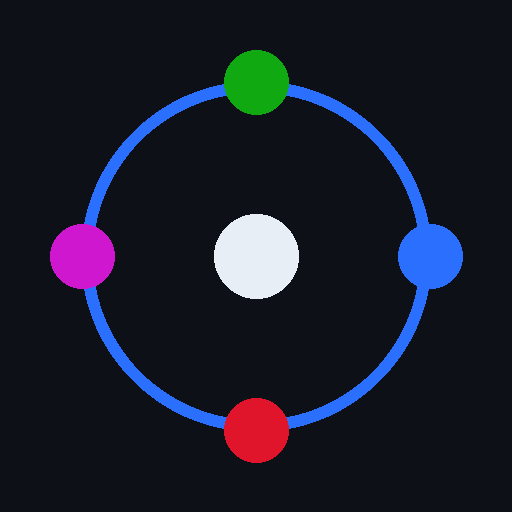
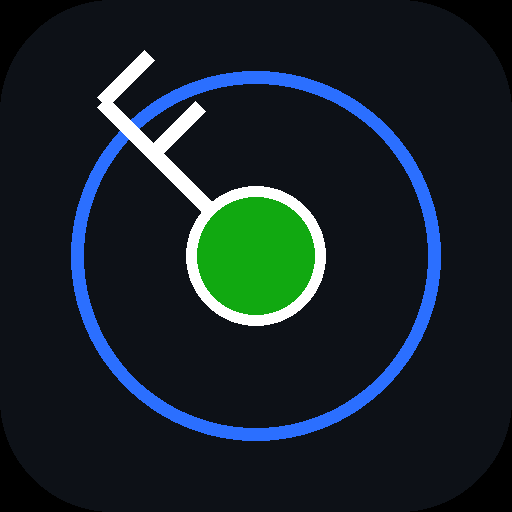
Add files via upload

Changed region(s): [[0.0938, 0.0938, 0.9062, 0.9062]]

diff --git a/index.html b/index.html
@@ -40,6 +40,7 @@
     height:32px;padding:0 12px;font-size:13px;font-weight:700}
   .toggle.on{background:var(--accent);color:#fff;border-color:var(--accent)}
   #map{flex:1;min-height:0;width:100%;background:#0a0e14}
+  #list{flex:1;min-height:0;overflow:auto;-webkit-overflow-scrolling:touch}
   .legend{display:flex;align-items:center;gap:14px;background:var(--panel);padding:6px 12px;flex-wrap:wrap}
   .legend .item{display:flex;align-items:center;gap:5px;font-size:13px;color:var(--muted)}
   .dot{width:12px;height:12px;border-radius:50%}
@@ -60,7 +61,14 @@
     font-size:11px;font-weight:700}
   .seg2 button.on{background:var(--accent);color:#fff}
   .tafBtn{margin-top:3px;background:transparent;border:0;color:#7fb0ff;font-size:12px;
-    font-weight:700;padding:2px 0;cursor:pointer;text-align:left}
+    font-weight:700;padding:2px 0;cursor:pointer;text-align:left;display:block}
+  .atisBtn{margin-top:3px;background:transparent;border:0;color:#6fe0aa;font-size:12px;
+    font-weight:700;padding:2px 0;cursor:pointer;text-align:left;display:block}
+  .tag.atis-tag{background:#214a39;color:#9af0c8}
+  .atis{margin-top:5px}
+  .atis-text{font-family:ui-monospace,Menlo,Consolas,monospace;font-size:13px;color:#c2ecd7;
+    white-space:pre-wrap;word-break:break-word;margin-top:3px;line-height:1.45}
+  .atis.none{color:#6b7a8d;font-style:italic;font-size:13px;margin-top:5px}
   .name{color:var(--muted);font-size:12px;margin:1px 0 5px}
   .decoded{display:flex;flex-wrap:wrap;gap:4px 16px;margin:2px 0 7px}
   .decoded{gap:6px 18px}
@@ -125,7 +133,7 @@
         <button data-r="50" class="on">50</button>
         <button data-r="100">100</button>
       </div>
-      <button id="filterBtn" class="toggle" title="Filter by conditions">All</button>
+      <button id="listBtn" class="toggle" title="Switch between map and list">List</button>
       <button id="radarBtn" class="toggle" title="Toggle weather radar">☔ Radar</button>
       <button id="refreshBtn" class="toggle" title="Refresh">↻</button>
       <button id="skipBtn" class="toggle on" title="Skip the intro" style="display:none">Skip ▸</button>
@@ -142,6 +150,7 @@
   </div>
 
   <div id="status"></div>
+  <div id="list" style="display:none"></div>
 
   <footer>
     <span class="disc">Situational awareness only — not an official weather briefing.
@@ -166,7 +175,6 @@ const API = (PROXY_BASE || "") + "/api/data";
 let radiusNm = 50;
 let center = null;
 let lastStations = [];
-let currentFilter = "all";   // "all" | "ifr"
 let radarLayer = null;
 
 // ---- geo helpers --------------------------------------------------------
@@ -222,6 +230,36 @@ function summaryLine(s){
 function fmtTaf(raw){
   if (!raw) return null;
   return raw.replace(/\s+(FM\d{6}|BECMG|TEMPO|PROB\d{2})/g, "\n$1").trim();
+}
+
+// ---- ATIS (digital ATIS, available at larger towered airports) ----------
+async function fetchAtis(icao){
+  for (const u of [`https://datis.clowd.io/api/${icao}`, `${PROXY_BASE}/atis/${icao}`]){
+    try{
+      const r = await fetch(u);
+      if (r.ok){ const j = await r.json(); if (Array.isArray(j)) return j; }
+    }catch(e){ /* try next source */ }
+  }
+  return [];
+}
+function atisHtml(arr){
+  if (!arr || !arr.length) return null;
+  return arr.map(a => {
+    const lbl = a.type === "dep" ? "Departure" : a.type === "arr" ? "Arrival" : "Combined";
+    return `<div class="atis"><span class="tag atis-tag">ATIS ${a.code||""} · ${lbl}</span>
+      <div class="atis-text">${a.datis||""}</div></div>`;
+  }).join("");
+}
+function wireAtis(btn, slot){
+  if (!btn || !slot) return;
+  btn.addEventListener("click", async e => {
+    e.stopPropagation();
+    if (slot.dataset.open){ slot.innerHTML=""; delete slot.dataset.open; btn.textContent="ATIS ▾"; return; }
+    btn.textContent = "Loading ATIS…";
+    const html = atisHtml(await fetchAtis(btn.dataset.icao));
+    slot.innerHTML = html || `<div class="atis none">No digital ATIS at this airport.</div>`;
+    slot.dataset.open = "1"; btn.textContent = "Hide ATIS ▴";
+  });
 }
 
 // ---- API ----------------------------------------------------------------
@@ -291,9 +329,7 @@ function setStatus(msg, isErr){
   el.style.display = msg ? "block" : "none";
 }
 function visibleStations(){
-  return currentFilter === "ifr"
-    ? lastStations.filter(s => s.fltCat === "IFR" || s.fltCat === "LIFR")
-    : lastStations;
+  return lastStations;   // always show every reporting station
 }
 
 function drawBase(){
@@ -318,6 +354,8 @@ function popupHtml(s){
     ${taf
       ? `<div class="taf-wrap"><span class="tag taf">TAF · ${s.icaoId}</span><div class="taf">${taf}</div></div>`
       : `<div class="taf-wrap"><span class="tag taf">TAF · ${s.icaoId}</span><span class="taf none">No forecast issued.</span></div>`}
+    <button type="button" class="atisBtn" data-icao="${s.icaoId}">ATIS ▾</button>
+    <div class="atis-slot"></div>
   </div>`;
 }
 
@@ -334,6 +372,73 @@ function renderStations(){
     m.bindPopup(popupHtml(s), {maxWidth:330, minWidth:250, autoPan:true});
     m.on("mouseover", () => m.openPopup());   // hover on desktop; tap on mobile
   }
+}
+
+// ---- optional list view -------------------------------------------------
+function cardEl(s){
+  const card = document.createElement("div");
+  card.className = "card";
+  card.style.borderLeftColor = catColor(s.fltCat);
+  const taf = fmtTaf(s.taf);
+  card.innerHTML = `
+    <div class="chip" style="background:${catColor(s.fltCat)}">${s.fltCat||"?"}</div>
+    <div class="body">
+      <div class="hdr">
+        <span class="id">${s.icaoId}</span>
+        <span class="dist">${Math.round(s.dist)} nm away · ${(s.name||"").trim()}</span>
+        <span class="seg2">
+          <button type="button" data-m="plain" class="on">Plain</button>
+          <button type="button" data-m="raw">Raw</button>
+        </span>
+      </div>
+      <div class="metarbox"></div>
+      <button type="button" class="tafBtn">Forecast (TAF) ▾</button>
+      <div class="taf-slot"></div>
+      <button type="button" class="atisBtn" data-icao="${s.icaoId}">ATIS ▾</button>
+      <div class="atis-slot"></div>
+    </div>`;
+  const metarbox = card.querySelector(".metarbox");
+  const setMode = mode => {
+    metarbox.innerHTML = mode === "raw"
+      ? `<div class="rawline"><span class="tag metar">METAR · ${s.icaoId}</span><span class="raw">${s.rawOb||""}</span></div>`
+      : decodedGrid(s);
+    card.querySelectorAll(".seg2 button").forEach(b => b.classList.toggle("on", b.dataset.m === mode));
+  };
+  setMode("plain");
+  card.querySelector(".seg2").addEventListener("click", e => {
+    const b = e.target.closest("button"); if (b) setMode(b.dataset.m);
+  });
+  const tafBtn = card.querySelector(".tafBtn"), slot = card.querySelector(".taf-slot");
+  tafBtn.addEventListener("click", () => {
+    if (slot.dataset.open){ slot.innerHTML=""; delete slot.dataset.open; tafBtn.textContent="Forecast (TAF) ▾"; return; }
+    slot.dataset.open = "1"; tafBtn.textContent = "Hide forecast ▴";
+    slot.innerHTML = taf
+      ? `<div class="taf-wrap"><span class="tag taf">TAF · ${s.icaoId}</span><div class="taf">${taf}</div></div>`
+      : `<div class="taf-wrap"><span class="tag taf">TAF · ${s.icaoId}</span><span class="taf none">No forecast issued.</span></div>`;
+  });
+  wireAtis(card.querySelector(".atisBtn"), card.querySelector(".atis-slot"));
+  return card;
+}
+function renderList(){
+  const list = $("list"); list.innerHTML = "";
+  const arr = visibleStations();
+  if (!arr.length){
+    list.innerHTML = `<div class="card"><div class="body"><div class="name">${
+      lastStations.length ? "No stations match this filter." : "No reporting stations within " + radiusNm + "nm."
+    }</div></div></div>`;
+    return;
+  }
+  for (const s of arr) list.appendChild(cardEl(s));
+}
+let viewMode = "map";
+function setViewMode(mode){
+  viewMode = mode;
+  $("map").style.display = mode === "map" ? "" : "none";
+  $("list").style.display = mode === "list" ? "" : "none";
+  const b = $("listBtn");
+  b.textContent = mode === "map" ? "List" : "Map";
+  b.classList.toggle("on", mode === "list");
+  if (mode === "map") setTimeout(() => map.invalidateSize(), 60);
 }
 
 // Recolor the browser-tab favicon to match the nearest station's flight category.
@@ -362,6 +467,7 @@ async function load(c){
     lastStations = await fetchWx(c.lat, c.lon);
     drawBase();
     renderStations();
+    renderList();
     if (lastStations[0]) updateFavicon(lastStations[0].fltCat);
     document.title = lastStations[0]
       ? `${lastStations[0].icaoId} ${lastStations[0].fltCat} · Wx Radius`
@@ -399,18 +505,27 @@ function getLocation(){
     );
   });
 }
+function drawDots(metars, r){
+  introLayer.clearLayers();
+  for (const s of metars){
+    if (s.lat == null) continue;
+    L.circleMarker([s.lat, s.lon],
+      {radius:r, stroke:false, fillColor:catColor(s.fltCat), fillOpacity:.9}).addTo(introLayer);
+  }
+}
 async function showNational(){
   map.setView([39.5, -98.35], 4);
   try{
     const m = await getJson(`${API}/metar?bbox=24,-125,49,-66&format=json`);
-    if (introDone) return;
-    introLayer.clearLayers();
-    for (const s of m){
-      if (s.lat == null) continue;
-      L.circleMarker([s.lat, s.lon],
-        {radius:3, stroke:false, fillColor:catColor(s.fltCat), fillOpacity:.85}).addTo(introLayer);
-    }
+    if (!introDone) drawDots(m, 3);
   }catch(e){ /* national splash is optional */ }
+}
+async function showRegional(loc){
+  try{
+    const [s,w,n,e] = bbox(loc.lat, loc.lon, 225);   // ~225nm box = denser local coverage
+    const m = await getJson(`${API}/metar?bbox=${s},${w},${n},${e}&format=json`);
+    if (!introDone) drawDots(m, 4);
+  }catch(e){ /* optional */ }
 }
 async function startup(){
   const skip = $("skipBtn"); if (skip) skip.style.display = "";
@@ -424,6 +539,7 @@ async function startup(){
   if (introDone) return;
   setStatus("Zooming to your region…");
   map.flyTo([loc.lat, loc.lon], 7, {duration:1.6});
+  showRegional(loc);   // denser METARs for the region view
   await sleep(5000);
   if (introDone) return;
   cancelIntro();
@@ -444,7 +560,7 @@ async function toggleRadar(){
     if (!past.length) throw new Error();
     const f = past[past.length - 1];
     radarLayer = L.tileLayer(`${j.host}${f.path}/256/{z}/{x}/{y}/2/1_1.png`,
-      {opacity:0.55, zIndex:400}).addTo(map);
+      {opacity:0.55, zIndex:400, tileSize:256, maxNativeZoom:8, maxZoom:18}).addTo(map);
     $("radarBtn").classList.add("on");
   }catch(e){ setStatus("Radar unavailable right now.", true); }
 }
@@ -468,12 +584,11 @@ $("radiusSeg").addEventListener("click", e => {
   [...$("radiusSeg").children].forEach(x => x.classList.toggle("on", x === b));
   if (center) load(center);
 });
-$("filterBtn").addEventListener("click", () => {
-  currentFilter = currentFilter === "all" ? "ifr" : "all";
-  const btn = $("filterBtn");
-  btn.textContent = currentFilter === "ifr" ? "IFR+" : "All";
-  btn.classList.toggle("on", currentFilter === "ifr");
-  renderStations();
+$("listBtn").addEventListener("click", () => setViewMode(viewMode === "map" ? "list" : "map"));
+map.on("popupopen", e => {
+  const el = e.popup.getElement(); if (!el) return;
+  const btn = el.querySelector(".atisBtn");
+  if (btn && !btn.dataset.bound){ btn.dataset.bound = "1"; wireAtis(btn, el.querySelector(".atis-slot")); }
 });
 
 // PWA service worker

diff --git a/worker.js b/worker.js
@@ -19,6 +19,20 @@ export default {
       });
     }
 
+    if (url.pathname.startsWith("/atis/")) {
+      const icao = url.pathname.split("/")[2] || "";
+      try {
+        const up = await fetch("https://datis.clowd.io/api/" + encodeURIComponent(icao),
+          { headers: { Accept: "application/json" } });
+        const res = new Response(up.body, up);
+        res.headers.set("Access-Control-Allow-Origin", "*");
+        return res;
+      } catch (e) {
+        return new Response("[]", { status: 200,
+          headers: { "Content-Type": "application/json", "Access-Control-Allow-Origin": "*" } });
+      }
+    }
+
     if (!url.pathname.startsWith("/api/data/")) {
       return new Response("Wx Radius proxy OK", { status: 200 });
     }

diff --git a/sw.js b/sw.js
@@ -1,6 +1,6 @@
 // Minimal service worker: makes the app installable and loads the shell offline.
 // Weather API calls always go to the network (never cache stale weather).
-const CACHE = "wx-radius-v6";
+const CACHE = "wx-radius-v9";
 const SHELL = [
   "./",
   "./index.html",